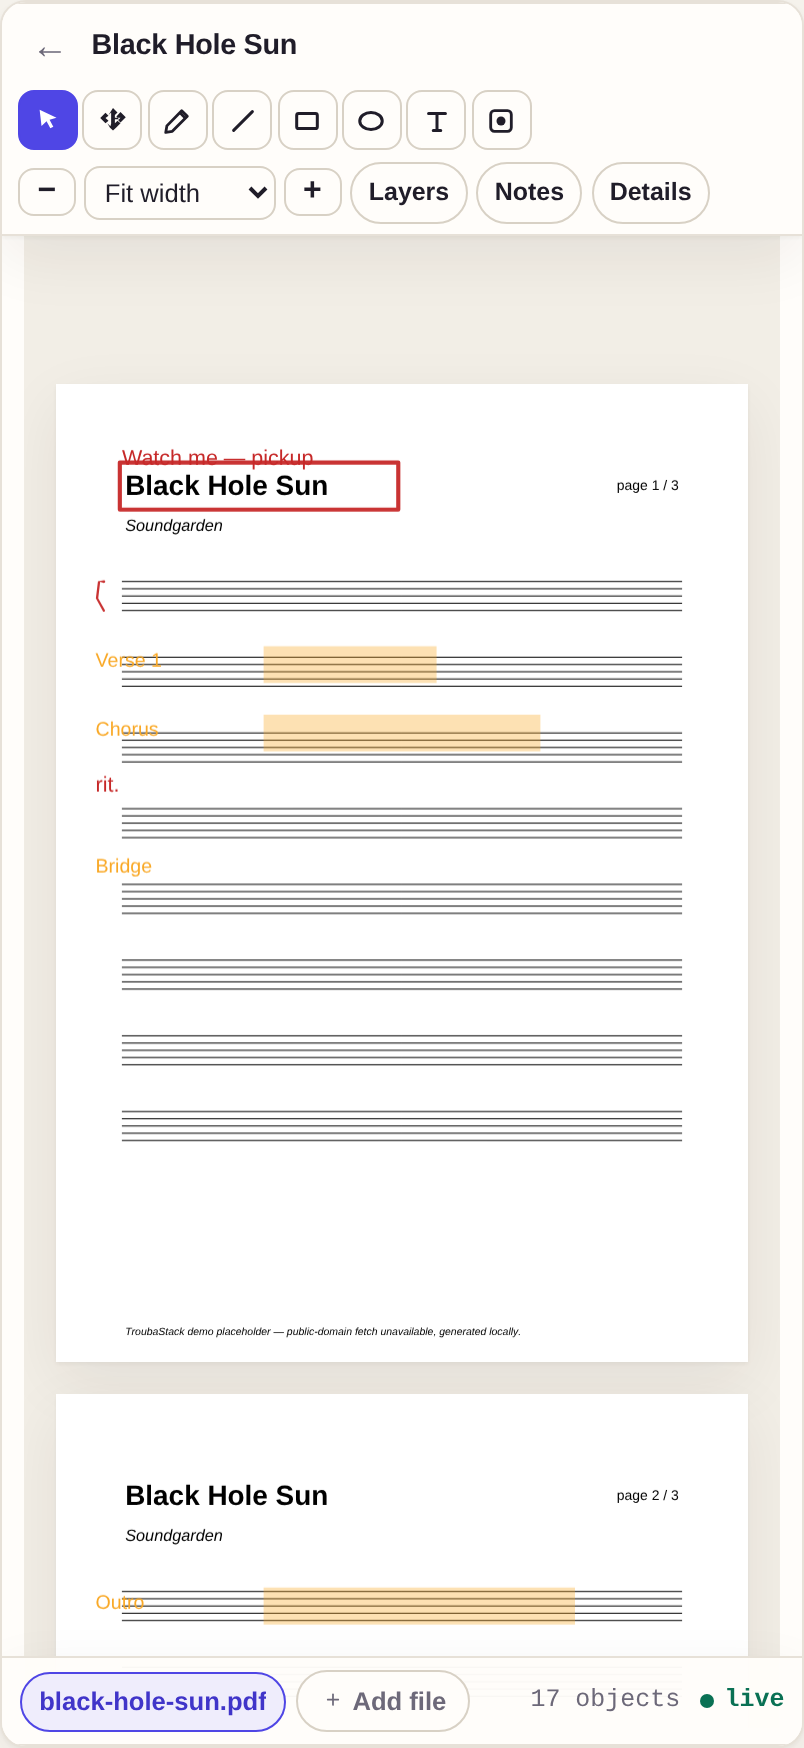
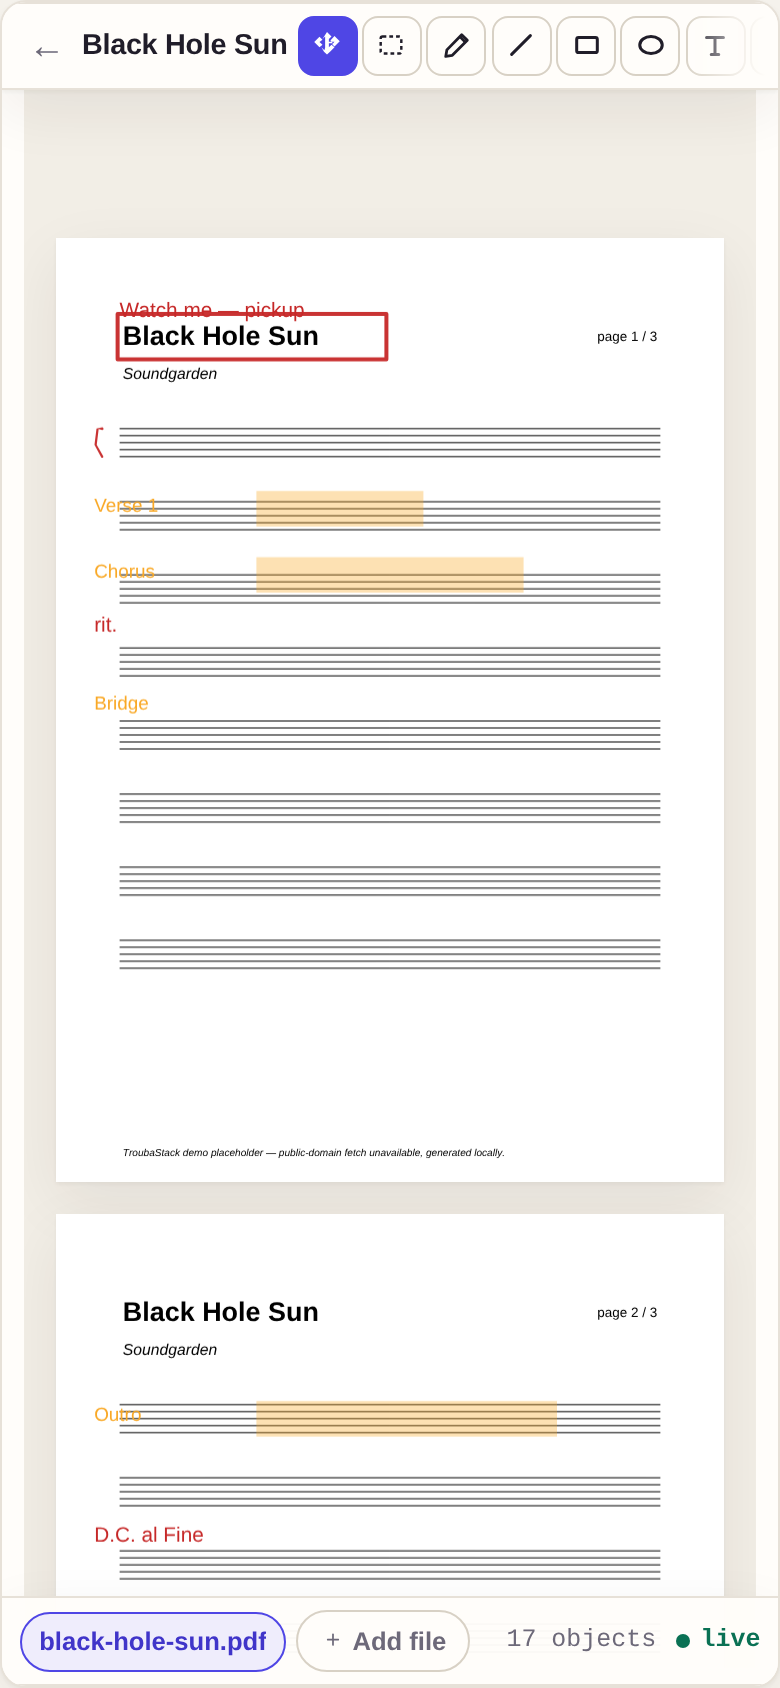
docs/readme: refresh the studio-editor screenshot for T66
The editor chrome changed in T66 (landed 7a70f48): Move is now the default + first
tool and Select's icon is a dashed rectangle, so the old shot was stale (Fable's
64b0545 heads-up). Recaptured on a 390px phone viewport against the demo build —
one-row tool strip with Move active/first, dashed-rect Select, then the draw tools,
over Black Hole Sun p1/3 with its red conductor annotations + orange highlights.
Alt text updated to match.

Changed region(s): [[0.0, 0.0, 0.9846, 0.8009], [0.0308, 0.8318, 0.8615, 1.0], [0.8615, 0.955, 0.9846, 0.9858]]

diff --git a/README.md b/README.md
@@ -22,7 +22,7 @@ night mode, count-in, facing pages, per-role layers.
 
 | TroubaStudio — annotate together, live | TroubaStage — perform offline |
 |---|---|
-| <img src="docs/screenshots/studio-editor.png" alt="The fullscreen canvas-first TroubaStudio editor on a phone — Black Hole Sun (page 1/3): red conductor annotations and orange section highlights over the staff, with the slim floating tool row above the score (Select, the new Move/pan tool, then the draw tools)" width="260"> | <img src="docs/screenshots/stage-page.png" alt="A page of the demo bundle as TroubaStage composites it: Black Hole Sun with chords, orange section highlights and red conductor annotations over the score raster" width="260"> |
+| <img src="docs/screenshots/studio-editor.png" alt="The fullscreen canvas-first TroubaStudio editor on a phone — Black Hole Sun (page 1/3): red conductor annotations and orange section highlights over the staff, with the slim one-row tool strip above the score — the Move/pan tool active by default and first, then the dashed-rectangle Select tool, then the draw tools" width="260"> | <img src="docs/screenshots/stage-page.png" alt="A page of the demo bundle as TroubaStage composites it: Black Hole Sun with chords, orange section highlights and red conductor annotations over the score raster" width="260"> |
 
 The full loop works end to end today: **compose → annotate (realtime, multi-user) →
 bake → offer → download in-app → perform offline** — on Android, iOS (simulator-proven)
